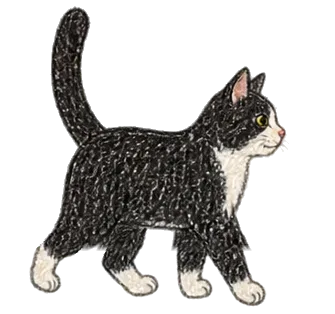
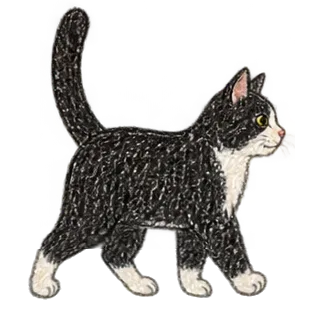
냥사: 걷는 고양이 다리를 조각내 돌리지 않고 휘게 바꿔 잘린 자국 없앰
다리 조각을 돌리는 방식은 엉덩이·배 쪽에 어떻게 해도 잘린 선이 남았다.
엉덩이는 그대로 두고 아래로 갈수록 옆으로 더 밀어 다리가 몸통에서 끊김 없이 이어지게 했다.

Changed region(s): [[0.5075, 0.7166, 0.806, 0.9745], [0.0597, 0.7166, 0.4776, 0.9745]]

diff --git a/landing/nyangsa/app.js b/landing/nyangsa/app.js
@@ -147,7 +147,7 @@
       // 다리 4개를 엇갈려 흔든 걸음 그림 6장을 차례로 보여줘서 걷게 한다
       if (w.coat !== c.coat) {
         w.coat = c.coat;
-        w.el.querySelectorAll('img').forEach((img, i) => img.setAttribute('src', '/nyangsa/img/walk-' + c.coat + '-f-' + i + '.webp?v=2'));
+        w.el.querySelectorAll('img').forEach((img, i) => img.setAttribute('src', '/nyangsa/img/walk-' + c.coat + '-f-' + i + '.webp?v=3'));
       }
       w.el.querySelector('.name').textContent = c.name;
     }

diff --git a/landing/nyangsa/index.html b/landing/nyangsa/index.html
@@ -106,6 +106,6 @@
   <form method="dialog" class="row"><button>닫기</button></form>
 </dialog>
 
-<script src="/nyangsa/app.js?v=11"></script>
+<script src="/nyangsa/app.js?v=12"></script>
 </body>
 </html>

diff --git a/docs/냥사/걸음프레임_만들기.py b/docs/냥사/걸음프레임_만들기.py
@@ -53,53 +53,62 @@ top_y = y          # 다리 윗부분(몸통 속)
 for yy in range(foot_y + 1, h):
     centers[yy] = centers[foot_y]
 
-# 2) 다리 영역 픽셀을 가장 가까운 다리에 배정. 다리 굵기 안쪽만 떼어야
-#    돌릴 때 몸통 조각이 배 밑으로 삐져나와 잘린 선이 보이지 않는다
-legs = [np.zeros((h, w), bool) for _ in range(4)]
+# 2) 배 아래(split_y 밑)에선 다리 4개가 이미 떨어져 있으니 가장 가까운 다리에 배정만 한다.
+#    다리를 조각내 돌리면 어딘가 잘린 자국이 남아서, 대신 다리를 옆으로 휘게(밀어) 움직인다
 xs = np.arange(w)
+legs = [np.zeros((h, w), bool) for _ in range(4)]
+for yy in range(split_y + 1, h):
+    owner = np.abs(xs[:, None] - np.array(centers[yy])[None, :]).argmin(1)
+    for i in range(4):
+        legs[i][yy] = alpha[yy] & (owner == i)
 half = []
 for i in range(4):
     ws = [b - a for yy in range(split_y + 1, foot_y + 1)
           for a, b in runs(alpha[yy]) if a <= centers[yy][i] <= b]
     half.append((np.median(ws) if ws else 20) / 2 + 3)
-for yy in range(top_y, h):
-    c = np.array(centers[yy])
-    d = np.abs(xs[:, None] - c[None, :])
-    owner = d.argmin(1)
-    for i in range(4):
-        legs[i][yy] = alpha[yy] & (owner == i) & (d[:, i] <= half[i])
 
-belly_y = split_y + 4          # 배 아래로 조금 겹쳐 남겨 틈이 안 보이게
-FEATHER = 8                    # 몸통 아래 끝을 서서히 지워 칼로 자른 선이 안 보이게
-fade = np.ones(h)
-fade[belly_y:] = 0
-fade[belly_y - FEATHER:belly_y] = np.linspace(1, 0, FEATHER)
+# 반투명 가장자리가 검게 번지지 않게 색에 투명도를 곱해 두고 계산한다
+P = A.astype(float)
+P[..., :3] *= P[..., 3:4] / 255
 
 
-def layer(mask, mul=None):
-    L = A.copy()
-    a = np.where(mask, A[..., 3], 0).astype(float)
-    if mul is not None:
-        a = a * mul[:, None]
-    L[..., 3] = a.astype(np.uint8)
-    return Image.fromarray(L, 'RGBA')
+def sample_row(row, xq):
+    return np.stack([np.interp(xq, xs, row[:, c], left=0, right=0) for c in range(4)], 1)
 
 
-body = layer(alpha, fade)
-leg_layers = [layer(m) for m in legs]
-pivots = [(centers[top_y][i], top_y) for i in range(4)]
+def over(top, under):
+    return top + under * (1 - top[:, 3:4] / 255)
 
-# 3) 왼쪽부터 다리 0,1 = 뒷다리, 2,3 = 앞다리. 대각선 다리끼리 같은 박자(0과 3, 1과 2)
+
+# 3) 왼쪽부터 다리 0,1 = 뒷다리, 2,3 = 앞다리. 대각선 다리끼리 같은 박자(0과 3, 1과 2).
+#    엉덩이·어깨(top_y)는 그대로 두고 아래로 갈수록 더 밀어서, 몸통 속에서 다리로 끊김 없이 이어진다
 phase = [0, math.pi, math.pi, 0]
 N = 6
 frames = []
 for k in range(N):
     t = 2 * math.pi * k / N
-    f = Image.new('RGBA', (w, h), (0, 0, 0, 0))
-    for i in range(4):
-        ang = 14 * math.sin(t + phase[i])
-        f.alpha_composite(leg_layers[i].rotate(ang, center=pivots[i], resample=Image.BICUBIC))
-    f.alpha_composite(body)
+    slope = [math.tan(math.radians(14 * math.sin(t + phase[i]))) for i in range(4)]
+    out = P.copy()
+    for yy in range(top_y, split_y + 1):
+        # 몸통 속 다리 윗부분: 다리 중심 가까운 곳만 그 다리만큼, 멀어질수록 0으로 부드럽게
+        c = centers[yy]
+        wsum = np.full(w, 0.05)
+        dsum = np.zeros(w)
+        for i in range(4):
+            wi = np.exp(-((xs - c[i]) / half[i]) ** 2)
+            wsum += wi
+            dsum += wi * slope[i]
+        dx = (yy - top_y) * dsum / wsum
+        out[yy] = sample_row(P[yy], xs - dx)
+    for yy in range(split_y + 1, h):
+        row = np.zeros((w, 4))
+        for i in range(4):
+            Li = P[yy] * legs[i][yy][:, None]
+            row = over(sample_row(Li, xs - slope[i] * (yy - top_y)), row)
+        out[yy] = row
+    a = out[..., 3:4]
+    rgb = np.where(a > 0, out[..., :3] * 255 / np.maximum(a, 1e-6), 0)
+    f = Image.fromarray(np.concatenate([rgb, a], 2).clip(0, 255).astype(np.uint8), 'RGBA')
     frames.append(f)
     f.save(f'{out_prefix}-{k}.webp', quality=82)
 
